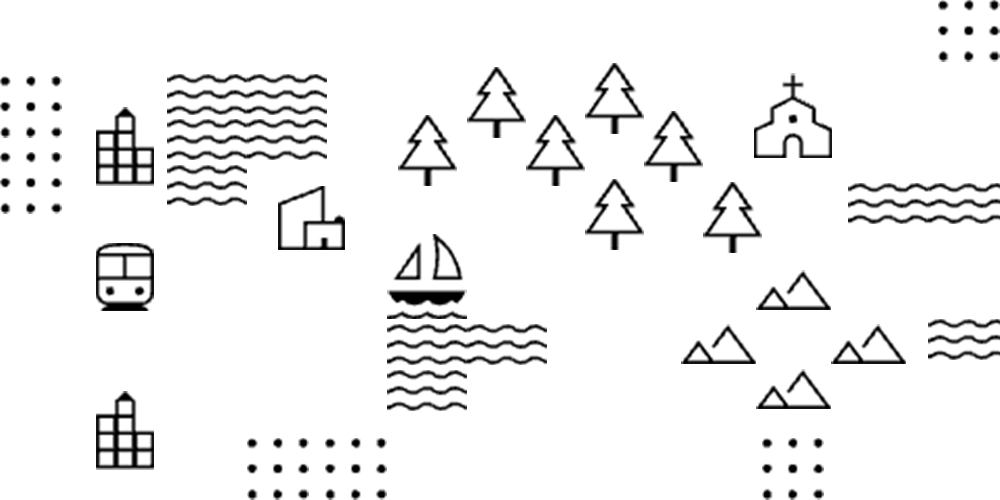
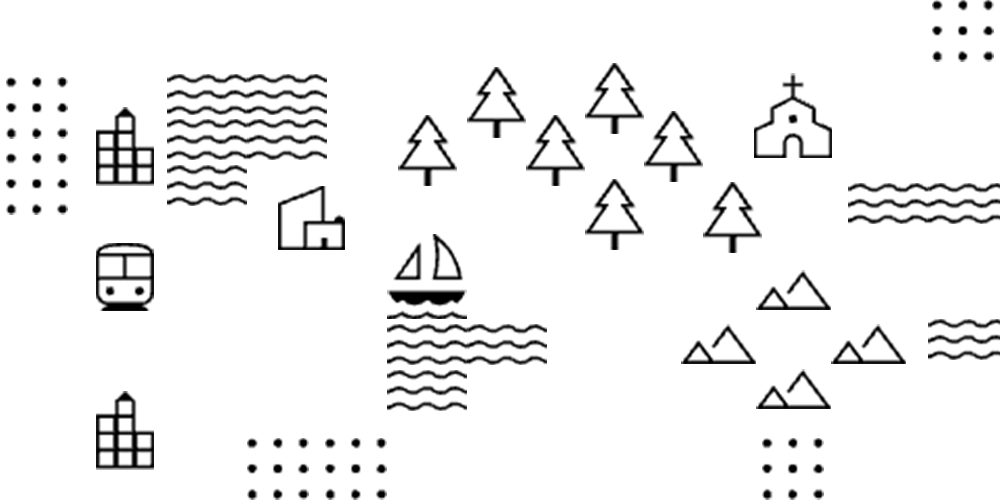
Adapt new features to larger screen

Changed region(s): [[0.0, 0.15, 0.093, 0.33], [0.93, 0.0, 1.0, 0.12], [0.0, 0.36, 0.093, 0.45]]

diff --git a/src/components/bodyContentViewerCreative.vue b/src/components/bodyContentViewerCreative.vue
@@ -35,7 +35,7 @@
             src="../assets/content/Cesynlinc-Optimal.webp"
             lazy-src="../assets/content/lazy/Cesynlinc-Optimal-modified.webp"
             max-width="30%"
-            max-height="100%"
+            max-height="50%"
         >
           <template v-slot:placeholder>
               <v-progress-circular
@@ -73,6 +73,7 @@ export default {
   background-blend-mode: soft-light;
   background-position: center;
   background-origin: content-box;
+  background-repeat: repeat-x;
 }
 
 /* Section 1 Start */
@@ -150,6 +151,7 @@ export default {
   background-blend-mode: soft-light;
   background-position: center;
   background-origin: content-box;
+  background-repeat: repeat-x;
 }
 
 #line-cross-in-R-1{

diff --git a/src/components/bodyContentViewerSurvival.vue b/src/components/bodyContentViewerSurvival.vue
@@ -36,7 +36,7 @@
             src="../assets/content/Raining-Pyutocor.webp"
             lazy-src="../assets/content/lazy/Raining-Pyutocor-Lazy.webp"
             max-width="30%"
-            max-height="100%"
+            max-height="50%"
         >
           <template v-slot:placeholder>
               <v-progress-circular
@@ -74,6 +74,7 @@ export default {
   background-blend-mode: soft-light;
   background-position: center;
   background-origin: content-box;
+  background-repeat: repeat-x;
 }
 
 /* Section 1 Start */
@@ -151,6 +152,7 @@ export default {
   background-blend-mode: soft-light;
   background-position: center;
   background-origin: content-box;
+  background-repeat: repeat-x;
 }
 
 #line-cross-in-R-1{

diff --git a/src/components/bodyContentViewer.vue b/src/components/bodyContentViewer.vue
@@ -50,7 +50,7 @@
             src="../assets/content/Morning-Central-Optimal.webp"
             lazy-src="../assets/content/lazy/Morning-Central-Modified.webp"
             max-width="30%"
-            max-height="100%"
+            max-height="50%"
         >
           <template v-slot:placeholder>
               <v-progress-circular
@@ -88,6 +88,7 @@ export default {
   background-blend-mode: soft-light;
   background-position: center;
   background-origin: content-box;
+  background-repeat: repeat-x;
 }
 
 .down-navigator{

diff --git a/src/components/mobile/tools/status/mobileDataOutput.vue b/src/components/mobile/tools/status/mobileDataOutput.vue
@@ -141,6 +141,12 @@ export default {
 .data-output{
   background-color: var(--body-content-bg);
   height: 1000px;
+
+  background-image: url('../../../../assets/background/abstract.webp');
+  background-blend-mode: soft-light;
+  background-position: center;
+  background-origin: content-box;
+  background-size: cover;
 }
 
 .creative-server-status{

diff --git a/src/components/errors/404.vue b/src/components/errors/404.vue
@@ -44,6 +44,11 @@ export default {
 div.not-found-page{
   background-color: var(--body-content-bg);
   height: 1000px;
+  background-image: url('../../assets/background/abstract.webp');
+  background-blend-mode: soft-light;
+  background-position: center;
+  background-origin: content-box;
+  background-repeat: repeat-x;
 }
 
 .status-declaration{

diff --git a/src/components/mobile/errors/mobile404.vue b/src/components/mobile/errors/mobile404.vue
@@ -44,6 +44,12 @@ export default {
 div.not-found-page{
   background-color: var(--body-content-bg);
   height: 800px;
+
+  background-image: url('../../../assets/background/abstract.webp');
+  background-blend-mode: soft-light;
+  background-position: center;
+  background-origin: content-box;
+  background-size: cover;
 }
 
 .status-declaration{

diff --git a/src/components/tools/status/bodyDataOutput.vue b/src/components/tools/status/bodyDataOutput.vue
@@ -146,6 +146,7 @@ export default {
   background-blend-mode: soft-light;
   background-position: center;
   background-origin: content-box;
+  background-repeat: repeat-x;
 }
 
 .creative-server-status{
